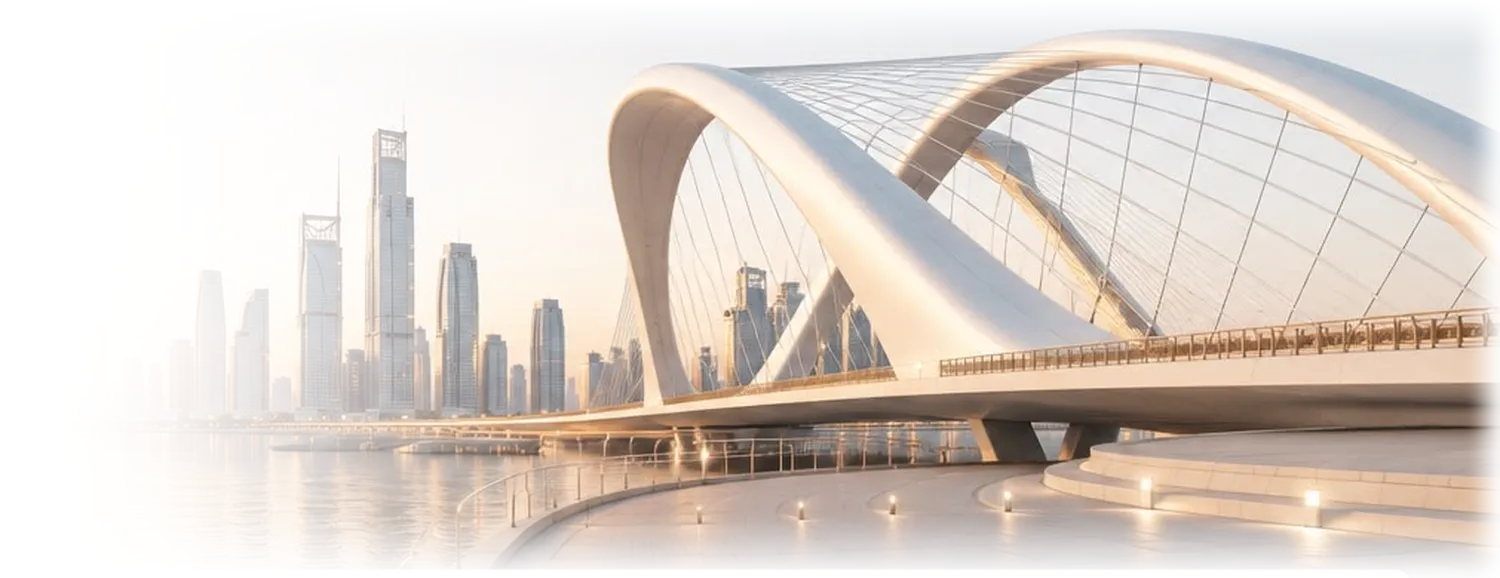
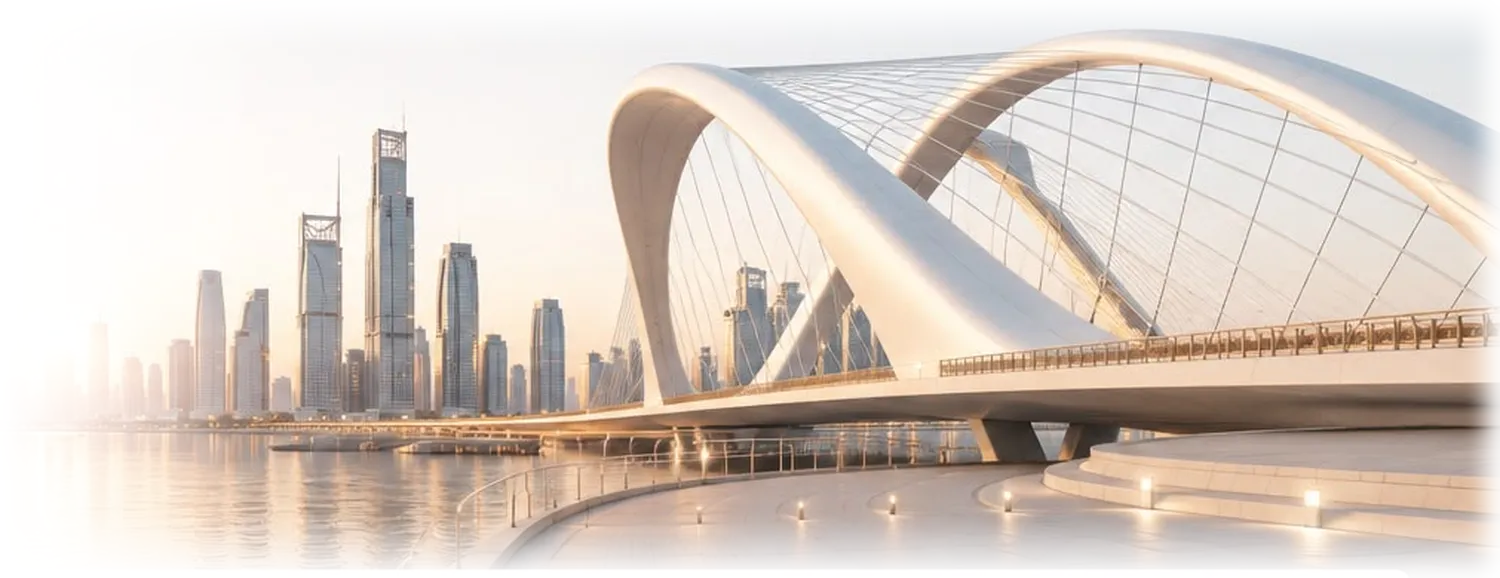
Hero panorama: original soft feather, shifted right

Changed region(s): [[0.0307, 0.218, 0.368, 0.9654]]

diff --git a/index.html b/index.html
@@ -60,7 +60,7 @@
   <div style="position: relative; overflow: hidden; padding: 60px 56px 76px; background: linear-gradient(180deg, #FFFFFF 0%, #F5F5F4 78%)">
     <div style="position: absolute; top: 0; left: 0; right: 0; bottom: 0; background-image: linear-gradient(rgba(22, 24, 29, 0.032) 1px, transparent 1px), linear-gradient(90deg, rgba(22, 24, 29, 0.032) 1px, transparent 1px); background-size: 44px 44px"></div>
     <div style="position: absolute; top: 0; left: 0; right: 0; bottom: 0; background: radial-gradient(760px 560px at 62% 44%, var(--accent-soft), transparent 70%)"></div>
-    <img src="bridge-pano.webp?v=2" alt="" style="position: absolute; left: 0; top: 50%; transform: translateY(-50%); width: 100%; display: block">
+    <img src="bridge-pano.webp?v=3" alt="" style="position: absolute; right: 0; top: 50%; transform: translateY(-50%); width: 1200px; max-width: none; display: block">
     <div style="position: relative; display: flex; gap: 36px; align-items: center">
 
       <div style="display: flex; flex-direction: column; gap: 28px; width: 540px; flex-shrink: 0">
